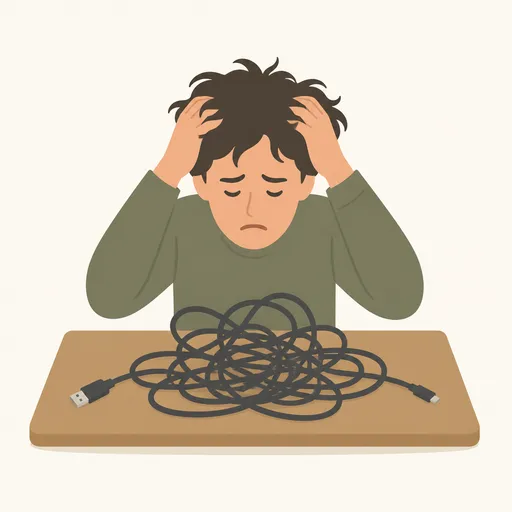
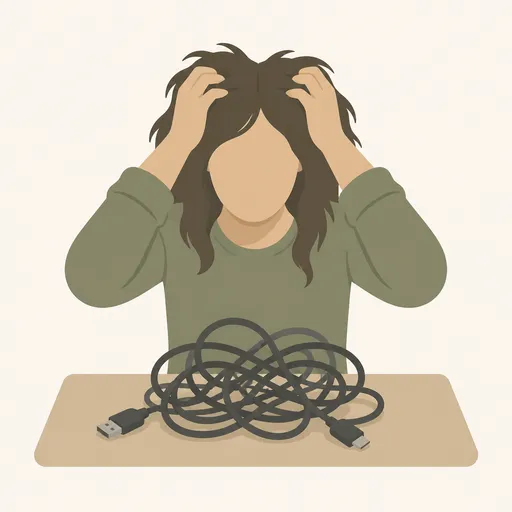
fix(image): 얼굴이 그려진 그림 8장을 다시 뽑는다
인물이 든 그림 462장 가운데 프롬프트에 no facial features가 빠진 것이
112장이었다. exclusive에서 한 번 걸렸던 결함이라 전수로 봤다 — 112장을
대지로 묶어 250px로 확인했다.

위반은 8장이다. 나머지 104장은 옆모습이거나 눈 점 하나뿐이라 규칙이
허용하는 범위다("이목구비는 넣지 않거나 점 두 개까지만").

  argue 눈썹·벌린 입 / frustrated 처진 눈썹·입 / jealous 두 얼굴의 표정
  friendly 웃는 입 둘 / take-photo 웃는 얼굴 둘 / whats-your-name 웃는 얼굴
  cheerful 웃는 옆얼굴 / slide 놀란 눈·벌린 입

그림만 다시 뽑지 않고 image_prompt에 , no facial features를 붙인 뒤 뽑았다.
프롬프트를 그대로 두면 다음 재생성에서 같은 얼굴이 돌아온다 — 그림은
프롬프트에서 재현되어야 한다 (IMAGE_STYLE).

감사 방법도 IMAGE_STYLE에 적었다. 대지를 만드는 스크립트와, 입·눈썹이
있으면 위반이고 눈 점 하나는 통과라는 판정 기준이다. 한 장씩 열어서는
못 잡는 종류의 결함이라 방법 자체를 남긴다.

diff --git a/IMAGE_STYLE.md b/IMAGE_STYLE.md
@@ -203,6 +203,50 @@ authorize → one hand pressing a round rubber stamp onto a sheet of paper
 
 ---
 
+## 얼굴 감사 — 인물이 든 그림을 한 번에 본다
+
+인물 그림은 시간이 지나면 **얼굴이 슬금슬금 그려진다.** 프롬프트에
+`no facial features`가 빠진 채 생성되면 모델이 표정을 넣기 때문이다.
+한 장씩 열어 보면 못 잡으므로 대지(contact sheet)로 묶어서 본다.
+
+```bash
+# 인물이 든 프롬프트 가운데 no facial features가 빠진 것만 모아 격자로 붙인다
+python3 - <<'EOF'
+import json, glob, re
+from PIL import Image, ImageDraw
+slugs = [c['slug'] for f in glob.glob('content/*.json')
+         for c in json.load(open(f))['concepts']
+         if re.search(r'\bfigure|\bperson|\bpeople|\bworker\b', (c.get('image_prompt') or '').lower())
+         and 'no facial features' not in c['image_prompt'].lower()]
+CELL, COLS = 250, 5
+for n in range(0, len(slugs), 25):
+    group = slugs[n:n + 25]
+    rows = (len(group) + COLS - 1) // COLS
+    sheet = Image.new('RGB', (COLS * CELL, rows * (CELL + 16)), 'white')
+    draw = ImageDraw.Draw(sheet)
+    for i, slug in enumerate(group):
+        im = Image.open(f'public/concepts/{slug}.webp').convert('RGB').resize((CELL - 8, CELL - 8))
+        x, y = (i % COLS) * CELL, (i // COLS) * (CELL + 16)
+        sheet.paste(im, (x + 4, y + 4))
+        draw.text((x + 6, y + CELL - 2), slug, fill='black')
+    sheet.save(f'/tmp/faces{n // 25}.png')
+EOF
+```
+
+**판정 기준은 입과 눈썹이다.**
+
+| 봐서 | 판정 |
+|---|---|
+| 옆모습에 눈 점 하나 · 감은 눈 선 | 통과. 규칙이 허용하는 "점 두 개까지" 안이다 |
+| 뒷모습 · 얼굴이 가려진 자세 | 통과 |
+| **입이 그려졌다 · 눈썹으로 표정을 만들었다** | **위반** — 다시 뽑는다 |
+
+고칠 때는 그림만 다시 뽑지 말고 **`image_prompt` 끝에 `, no facial features`를
+붙인 뒤** 뽑는다. 프롬프트를 고치지 않으면 다음에 재생성할 때 같은 얼굴이
+돌아온다 — 그림은 프롬프트에서 재현되어야 한다.
+
+---
+
 ## 검수 체크리스트
 
 업로드 전 확인한다. 하나라도 걸리면 다시 생성한다.
